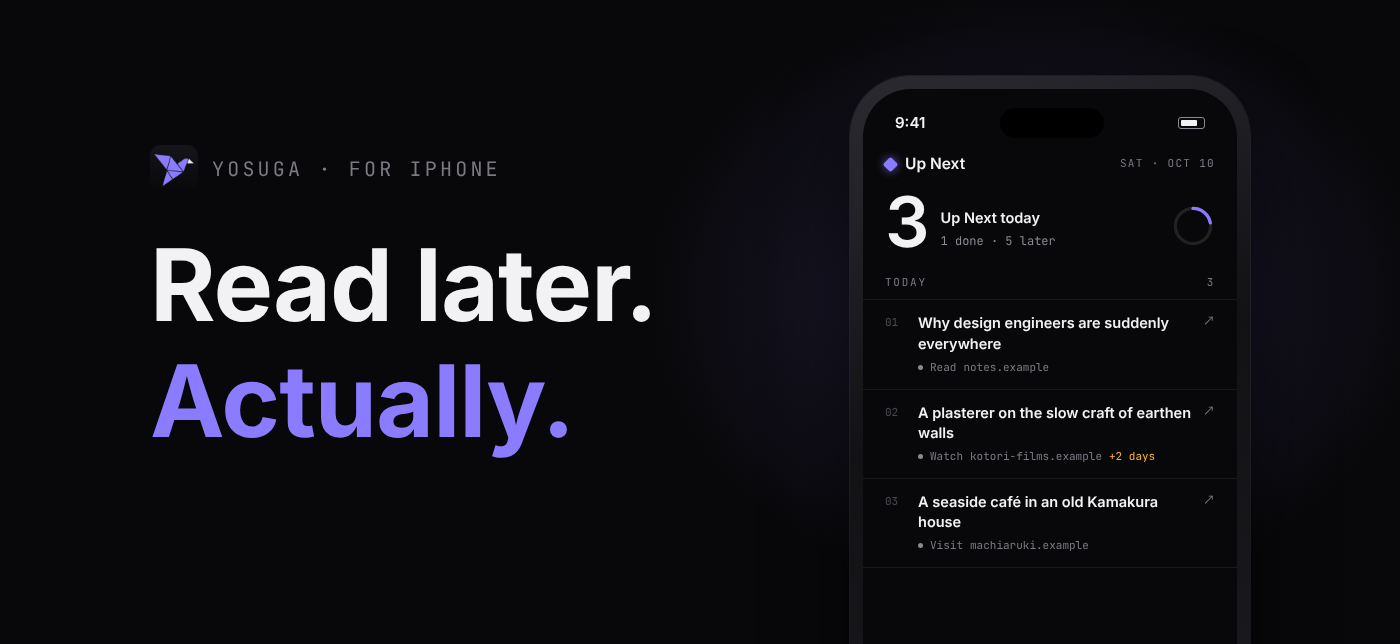
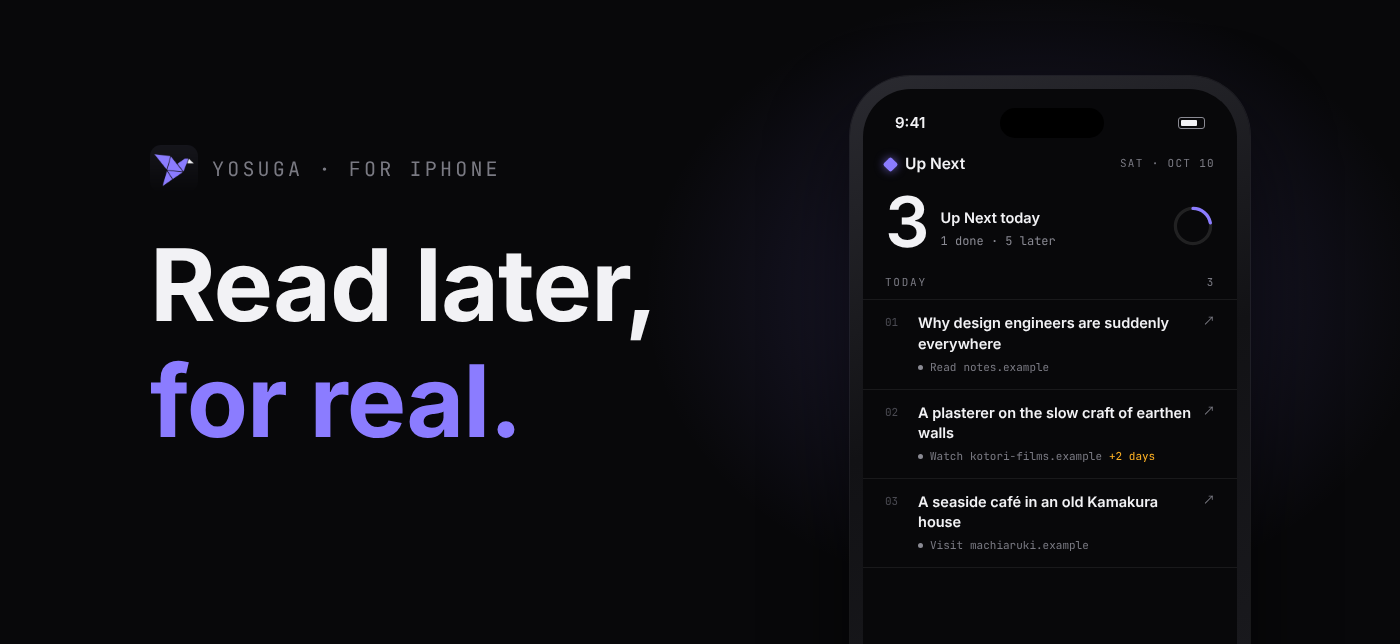
英語版の見出しを Read later, for real. にし、並べるの説明をアプリの英語に揃える
アプリ側の英語の見直し（yosuga）に合わせ、ページの見出し・title・OGP（画像と alt）と、
並べるの説明（Places to visit and things to make go on the weekend.）を直す。OGP と紹介カードの画像は export-og.mjs で書き出し直した。

Claude-Session: https://claude.ai/code/session_017FpMWnqtEPC4BtoPEfD449

Changed region(s): [[0.0921, 0.559, 0.43, 0.7143], [0.43, 0.4969, 0.4607, 0.528]]

diff --git a/yosuga/index.en.html b/yosuga/index.en.html
@@ -14,19 +14,19 @@
     })();
   </script>
   <meta name="color-scheme" content="dark" />
-  <title>Yosuga — Read later. Actually.</title>
+  <title>Yosuga — Read later, for real.</title>
   <meta name="description" content="Yosuga is an iPhone app that brings saved links back on the day you pick. Add from the share sheet, pick a day, and get one notification on that day." />
   <meta name="theme-color" content="#08080A" />
 
   <!-- OGP -->
   <meta property="og:type" content="website" />
-  <meta property="og:title" content="Yosuga — Read later. Actually." />
+  <meta property="og:title" content="Yosuga — Read later, for real." />
   <meta property="og:description" content="Saved links come back on the day you pick. Add from the share sheet, and just pick a day." />
   <meta property="og:url" content="https://rinro.jp/yosuga/index.en.html" />
   <meta property="og:image" content="https://rinro.jp/yosuga/assets/og-image-en.png" />
   <meta property="og:image:width" content="1200" />
   <meta property="og:image:height" content="630" />
-  <meta property="og:image:alt" content="Yosuga — Read later. Actually." />
+  <meta property="og:image:alt" content="Yosuga — Read later, for real." />
   <meta name="twitter:card" content="summary_large_image" />
 
   <link rel="alternate" hreflang="ja" href="index.html" />
@@ -477,7 +477,7 @@
       <div class="wrap">
         <div>
           <p class="mono"><span class="diamond" aria-hidden="true"></span>&nbsp;&nbsp;Yosuga · for iPhone</p>
-          <h1>Read later.<br /><em>Actually.</em></h1>
+          <h1>Read later,<br /><em>for real.</em></h1>
           <p class="lead">Saved links come back on the day you pick.<br />Add from the share sheet, and just pick a day.</p>
           <div class="cta">
             <a class="appstore-badge" href="https://apps.apple.com/app/apple-store/id6779824639?pt=128455553&ct=Yosuga%20LP&mt=8" rel="noopener" aria-label="Download Yosuga on the App Store">
@@ -671,7 +671,7 @@
           <div class="cell reveal">
             <p class="mono">06 · Arrange</p>
             <h3>Spread undated items over open days</h3>
-            <p>Arrange suggests a slot for each undated save on this week’s open days, one per day. Visits and makes go on the weekend.</p>
+            <p>Arrange suggests a slot for each undated save on this week’s open days, one per day. Places to visit and things to make go on the weekend.</p>
             <div class="demo">
               <div class="card" role="img" aria-label="How full each day this week is, and where Arrange would add one item">
                 <div aria-hidden="true">

diff --git a/yosuga/og/og.html b/yosuga/og/og.html
@@ -109,7 +109,7 @@
 <section class="card og" id="og-en" data-phone="en">
   <div class="copy">
     <p class="label"><img src="../assets/icon.png" alt="">Yosuga · for iPhone</p>
-    <h1>Read later.<br><em>Actually.</em></h1>
+    <h1>Read later,<br><em>for real.</em></h1>
     <p class="sub">Saved links come back<br>on the day you pick.</p>
   </div>
 </section>
@@ -124,7 +124,7 @@
 <section class="card thumb" id="thumb-en" data-phone="en">
   <div class="copy">
     <p class="label"><img src="../assets/icon.png" alt="">Yosuga · for iPhone</p>
-    <h1>Read later.<br><em>Actually.</em></h1>
+    <h1>Read later,<br><em>for real.</em></h1>
   </div>
 </section>
 
